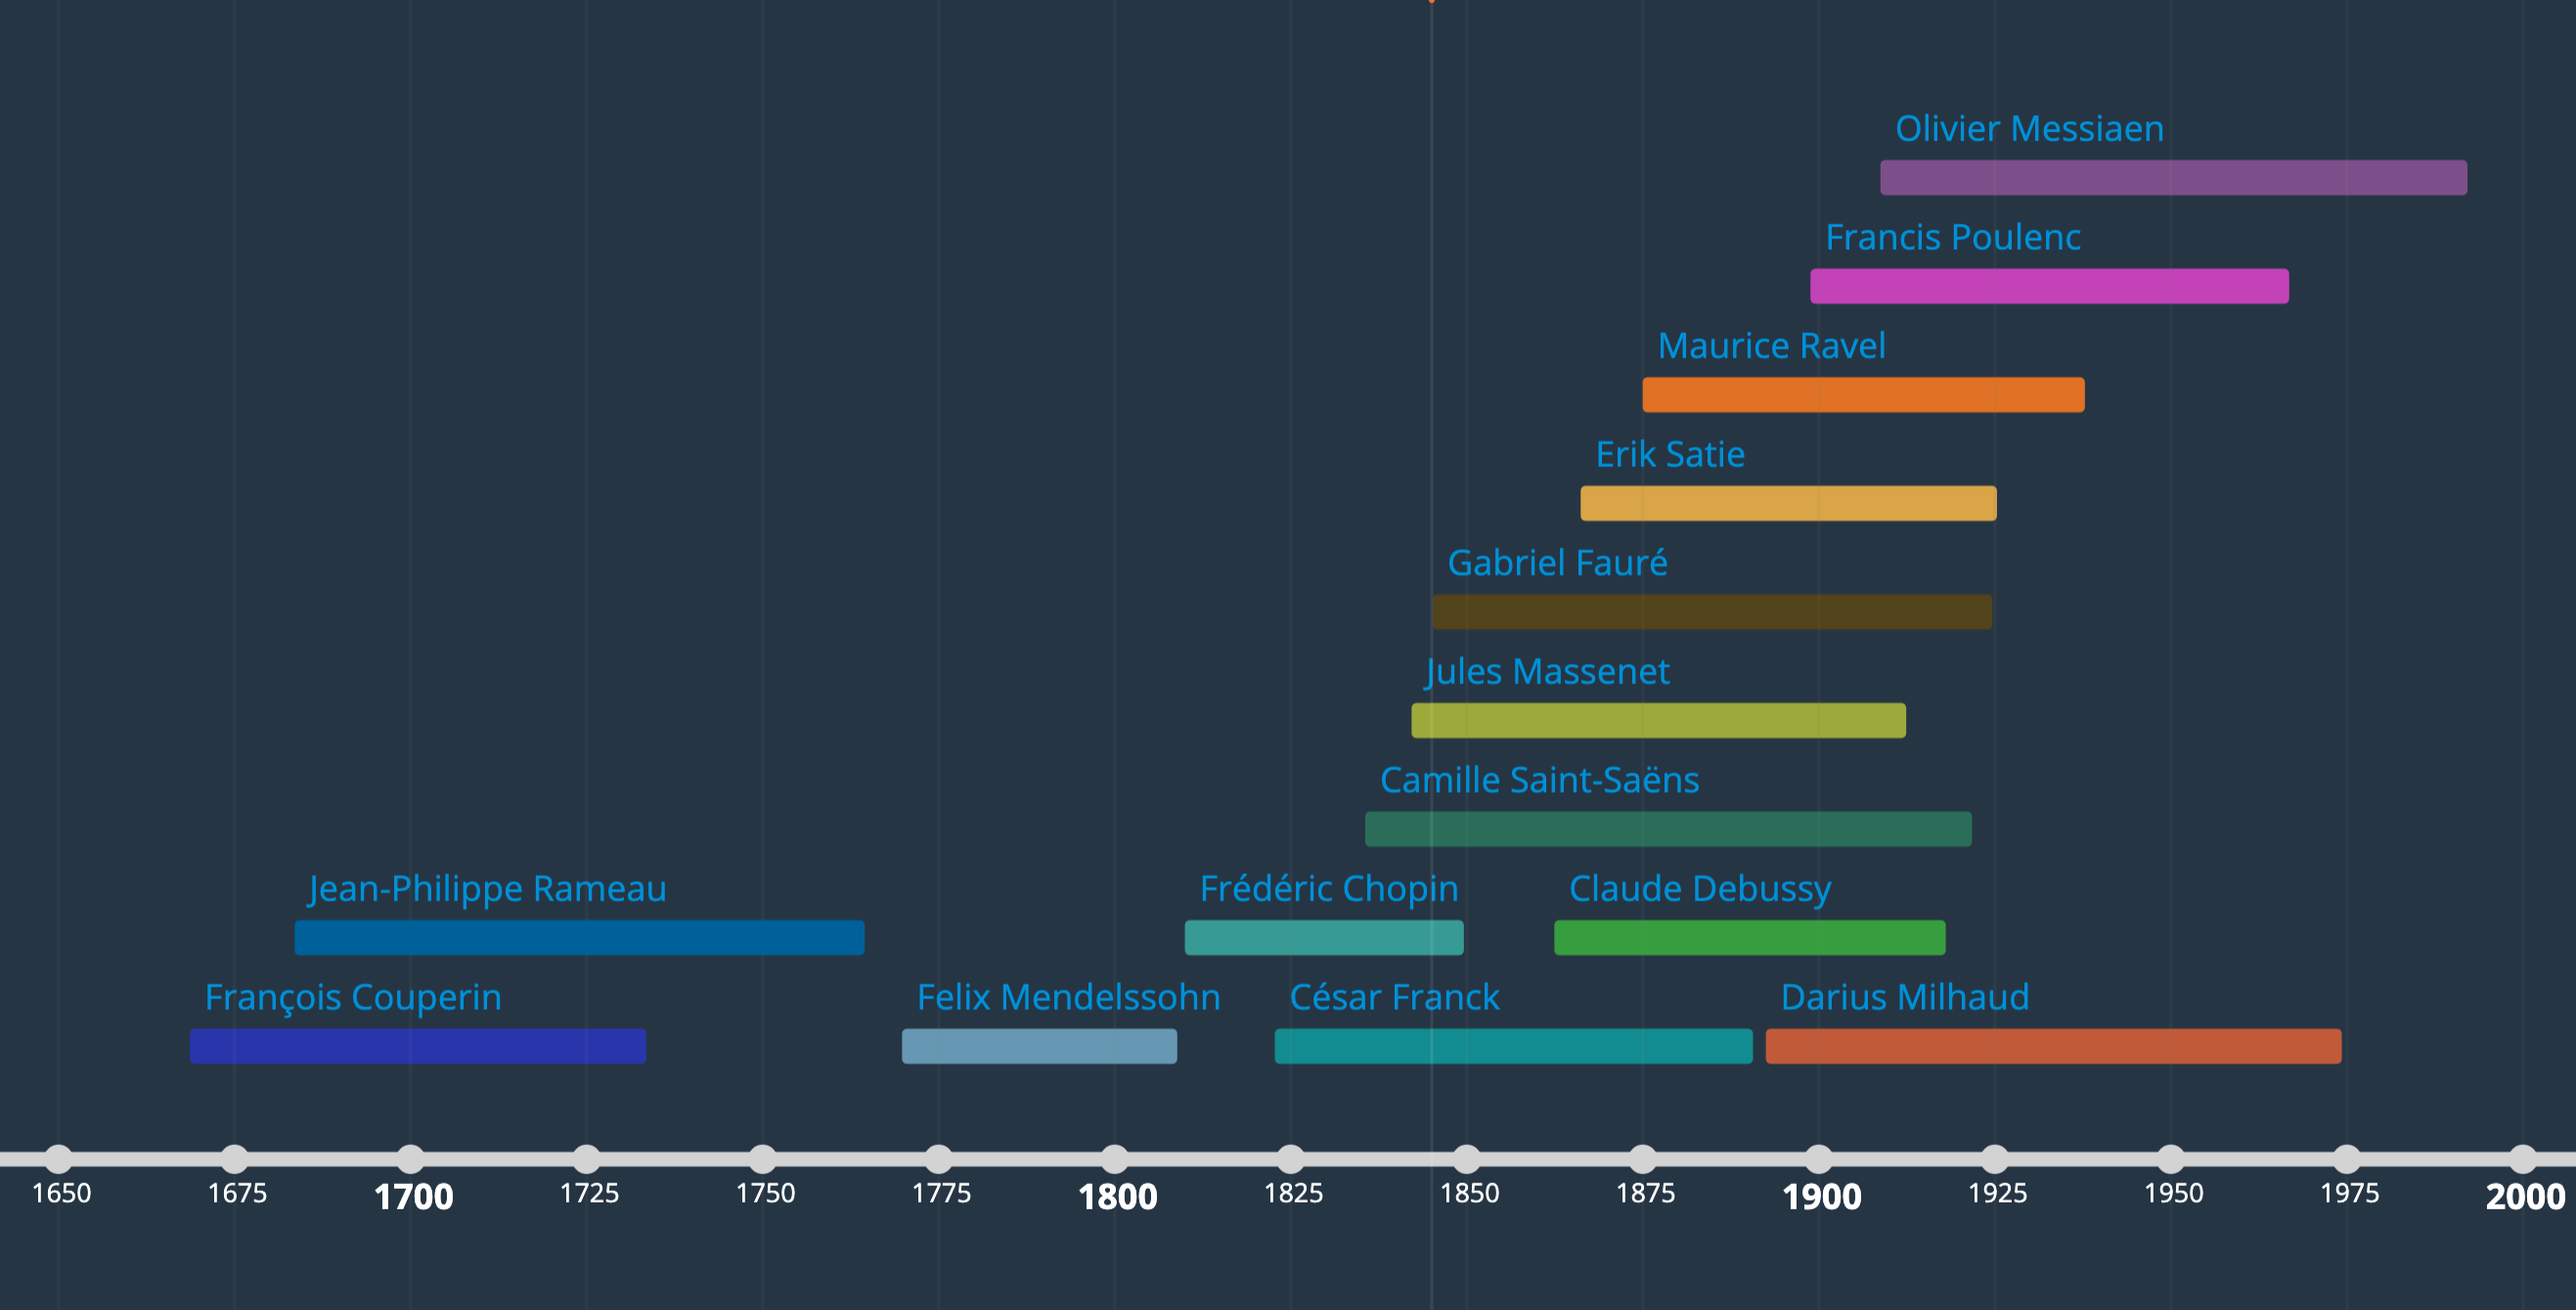
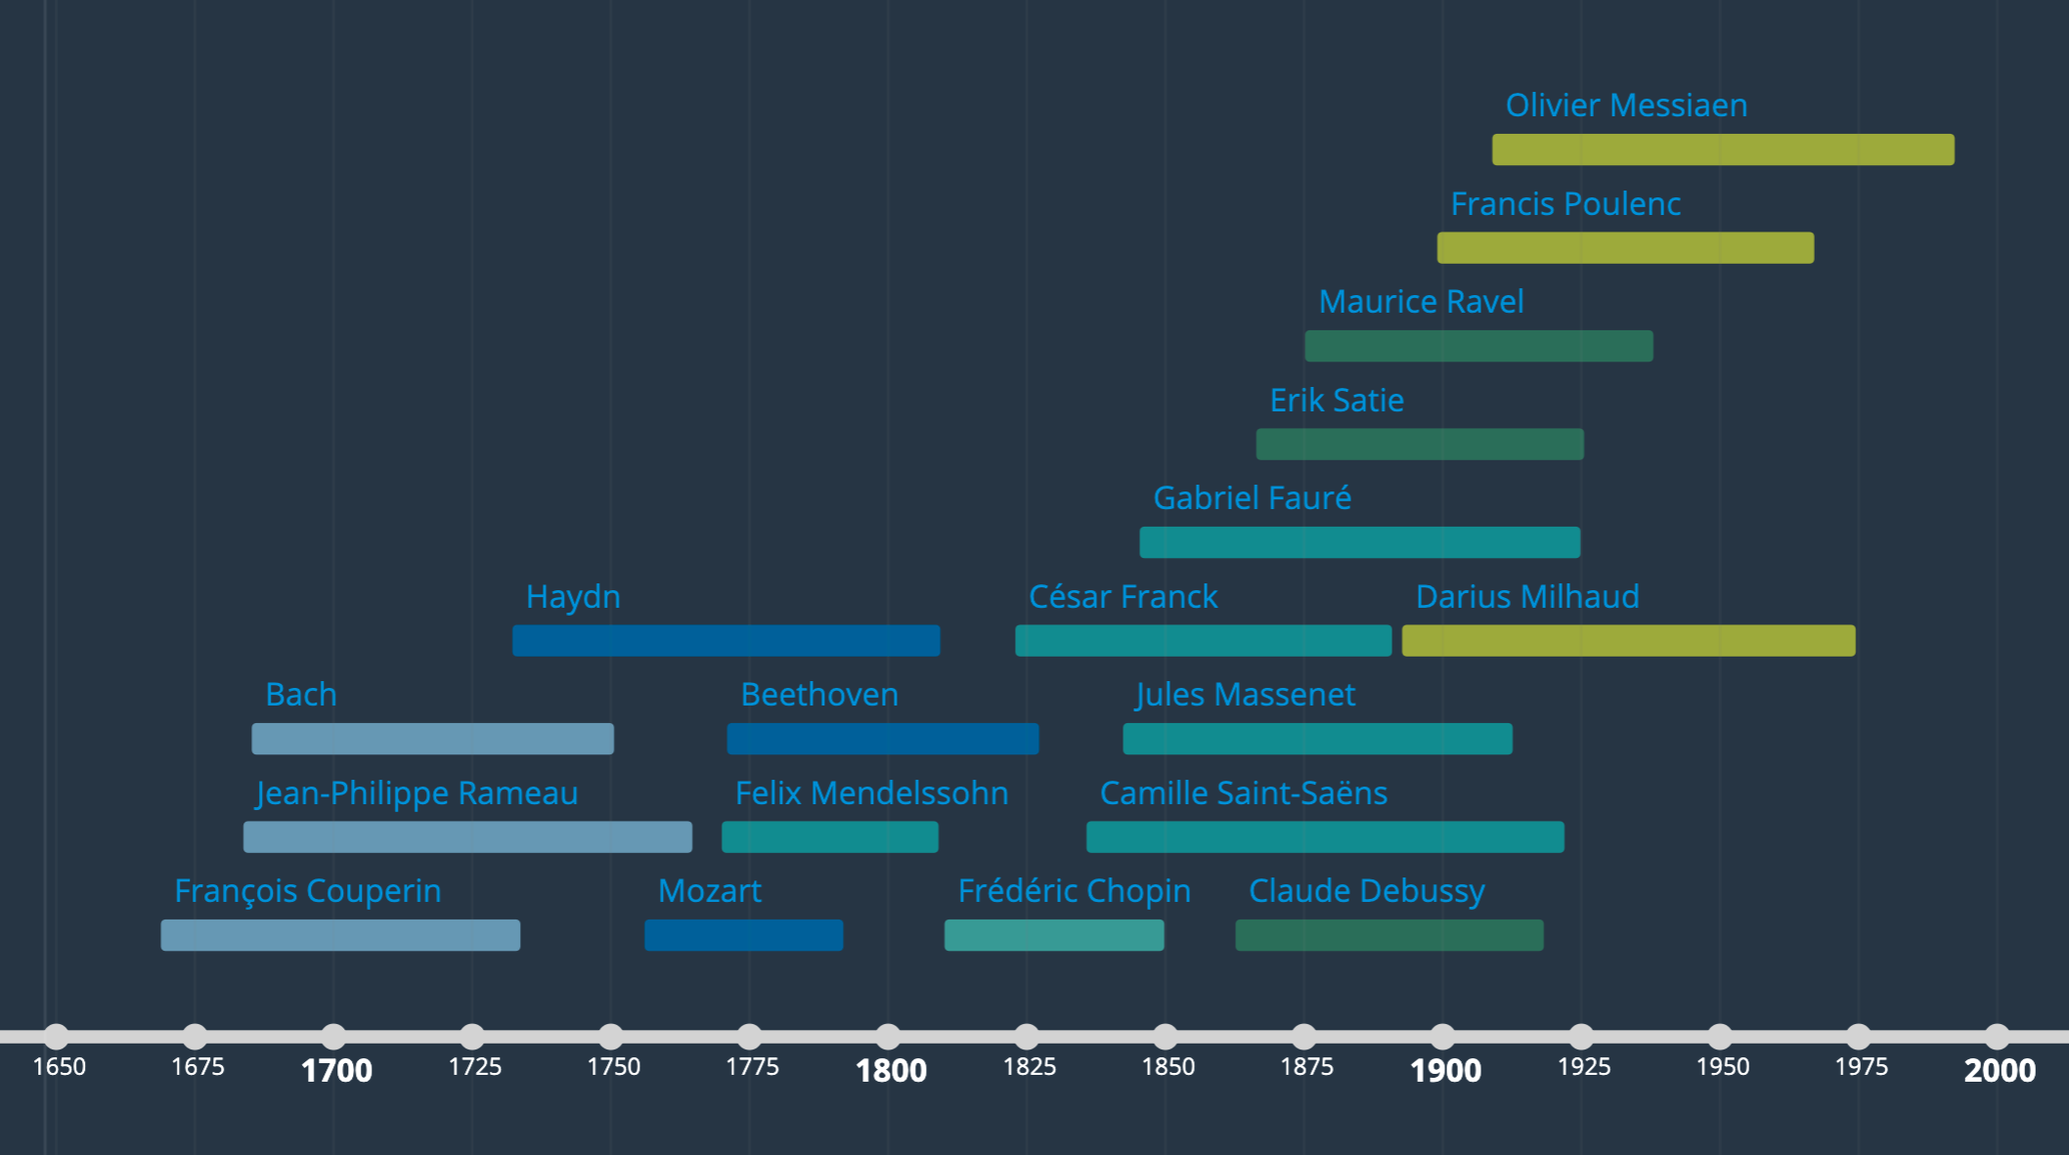
draft french composers

Changed region(s): [[0.0624, 0.0609, 0.9669, 0.8223], [0.0, 0.8528, 1.0, 0.9442]]

diff --git a/_drafts/2020-10-30-french-composers.md b/_drafts/2020-10-30-french-composers.md
@@ -1,19 +1,20 @@
 ---
 layout: post
-title:  "French & Romantic Composers"
+title:  "French Composers"
 date:   2020-10-30 21:35:00 +1300
 categories: music
 ---
 
 ![French Composers Timeline]({{ "/images/french-composers-timeline.png" | absolute_url }}){:style="width: 92%; margin: 0px 24px"}
 
-Timeline made in [Time.Graphics](https://time.graphics/editor/433649).
+I've been [listening][1001] to a lot of French piano music, lately. To get a better picture of the development of the music, here's a timeline of a selection of French composers and others for context, made in [Time.Graphics](https://time.graphics/editor/433649).
 
 ---------------------------|-------------|
  [François Couperin][1]    | (1668-1733) |
  [Jean-Philippe Rameau][2] | (1683-1764) |
  [Felix Mendelssohn][3]    | (1809-1847) |
  [Frédéric Chopin][4]      | (1810-1849) |
+ [Franz Liszt][15]         | (1811-1886) |
  [César Franck][5]         | (1822-1890) |
  [Camille Saint-Saëns][6]  | (1835-1921) |
  [Jules Massenet][7]       | (1842-1912) |
@@ -41,3 +42,5 @@ Timeline made in [Time.Graphics](https://time.graphics/editor/433649).
 [13]: https://en.wikipedia.org/wiki/Francis_Poulenc
 [14]: https://en.wikipedia.org/wiki/Olivier_Messiaen
 [15]: https://en.wikipedia.org/wiki/Edvard_Grieg
+
+[1001]: https://www.last.fm/user/cbare/library/artists?from=2020-04-01&rangetype=9month
